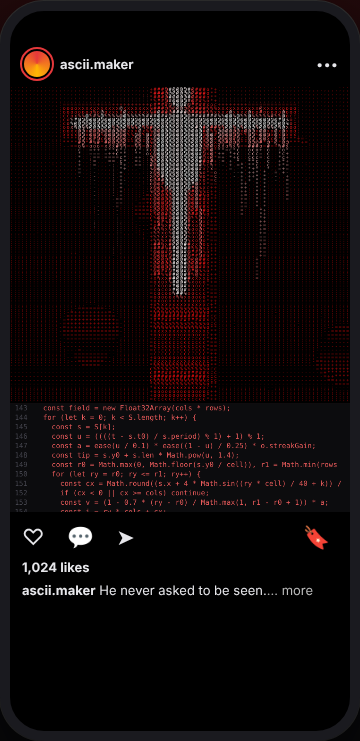
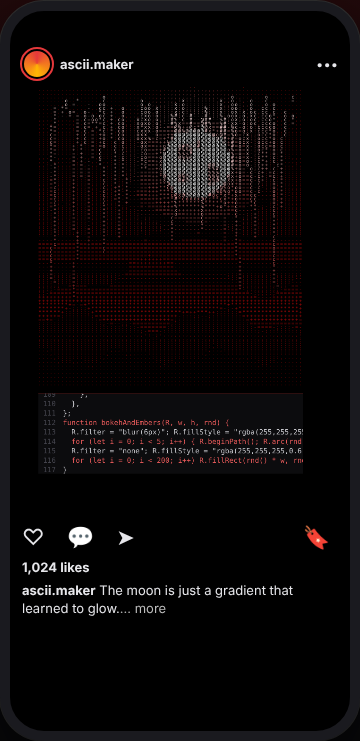
Neutral Moon preset as default; refresh README media
Claude-Session: https://claude.ai/code/session_01Pxq9N7TQmeZv5nHr7TsZvi

Changed region(s): [[0.0306, 0.0931, 0.9778, 0.6829], [0.0611, 0.776, 0.8556, 0.8381], [0.0306, 0.5277, 0.0917, 0.6829]]

diff --git a/src/engine.js b/src/engine.js
@@ -23,6 +23,39 @@ export function rng(seed) {
 
 // ---------- built-in scenes: draw white parts on `L`, red parts on `R` ----------
 export const PRESETS = {
+  moon: {
+    name: "Moon",
+    emitter: (h) => ({ x: 360, y: h * 0.12, spread: 330 }),
+    draw(L, R, w, h, rnd) {
+      const sx = w / 720, sy = h / 860;
+      const g = R.createLinearGradient(0, 0, 0, h);          // red dusk sky
+      g.addColorStop(0, "rgba(255,255,255,0.05)"); g.addColorStop(0.6, "rgba(255,255,255,0.45)");
+      g.addColorStop(1, "rgba(255,255,255,0.1)");
+      R.fillStyle = g; R.fillRect(0, 0, w, h);
+      L.filter = "blur(40px)"; L.fillStyle = "rgba(255,255,255,0.4)";   // moon halo + disc
+      L.beginPath(); L.arc(430 * sx, 250 * sy, 150 * sx, 0, TAU); L.fill();
+      L.filter = "blur(2px)"; L.fillStyle = "#fff";
+      L.beginPath(); L.arc(430 * sx, 250 * sy, 95 * sx, 0, TAU); L.fill();
+      L.globalCompositeOperation = "destination-out"; L.fillStyle = "rgba(0,0,0,0.35)";   // craters
+      [[400, 220, 20], [470, 280, 26], [440, 200, 10], [395, 290, 12]].forEach(([x, y, r]) => {
+        L.beginPath(); L.arc(x * sx, y * sy, r * sx, 0, TAU); L.fill(); });
+      L.globalCompositeOperation = "source-over"; L.filter = "none";
+      const ridge = (c, base, amp, f, ph, style) => {            // mountain silhouettes
+        c.globalCompositeOperation = "destination-out"; c.fillStyle = "#000";
+        c.beginPath(); c.moveTo(0, h);
+        for (let x = 0; x <= w; x += 6) c.lineTo(x, (base + amp * Math.sin(x / (f * sx) + ph) + amp * 0.5 * Math.sin(x / (f * 0.37 * sx) + ph * 2)) * sy);
+        c.lineTo(w, h); c.fill(); c.globalCompositeOperation = "source-over";
+        if (style) { c.fillStyle = style; c.beginPath(); c.moveTo(0, h);
+          for (let x = 0; x <= w; x += 6) c.lineTo(x, (base + amp * Math.sin(x / (f * sx) + ph) + amp * 0.5 * Math.sin(x / (f * 0.37 * sx) + ph * 2)) * sy);
+          c.lineTo(w, h); c.fill(); }
+      };
+      ridge(L, 560, 40, 90, 1, null); ridge(R, 560, 40, 90, 1, "rgba(255,255,255,0.55)");
+      ridge(L, 680, 30, 60, 3, null); ridge(R, 680, 30, 60, 3, "rgba(255,255,255,0.25)");
+      ridge(L, 780, 18, 40, 5, null); ridge(R, 780, 18, 40, 5, "rgba(255,255,255,0.08)");
+      R.fillStyle = "rgba(255,255,255,0.7)";                      // stars
+      for (let i = 0; i < 120; i++) R.fillRect(rnd() * w, rnd() * h * 0.55, 2, 2);
+    },
+  },
   crucifix: {
     name: "Cross",
     emitter: (h) => ({ x: 360, y: h * 0.31, spread: 220 }),

diff --git a/src/App.jsx b/src/App.jsx
@@ -14,8 +14,8 @@ const TINTS = { blood: [1, 0.06, 0.06], ember: [1, 0.45, 0.1], toxic: [0.3, 1, 0
 const SUGGESTED = ["asciiart", "ascii", "generativeart", "creativecoding", "codeart", "proceduralart", "glitchart",
   "digitalart", "darkart", "surrealart", "horrorart", "newmediaart", "algorithmicart", "computerart", "textart",
   "loopanimation", "animationloop", "javascript", "reactjs", "dailyart"];
-const DEFAULT_CAPTION = `He never asked to be seen.
-Red light, white silence, ash falling through time.
+const DEFAULT_CAPTION = `The moon is just a gradient that learned to glow.
+Red dusk, white light, characters falling like rain.
 
 Every frame is code. Not a single pixel drawn by hand.
 The source scrolls at the bottom — pause and read it.
@@ -24,7 +24,7 @@ What would you feed into it? 👇`;
 
 export default function App() {
   // ---------- visual params ----------
-  const [preset, setPreset] = useState("crucifix");
+  const [preset, setPreset] = useState("moon");
   const [image, setImage] = useState(null);
   const [cell, setCell] = useState(8);
   const [ramp, setRamp] = useState("classic");

diff --git a/README.md b/README.md
@@ -1,6 +1,6 @@
 <div align="center">
 
-<img src="docs/hero.gif" width="300" alt="ASCII loop: a glowing faceless figure on a red cross, ash falling" />
+<img src="docs/hero.gif" width="300" alt="ASCII loop: a glowing moon over red mountains, light rain falling" />
 
 # ASCII Reels Studio
 
@@ -16,7 +16,7 @@
 
 | | |
 |---|---|
-| 🖼 **Scenes** | Built-in procedural scenes (*Cross*, *Monolith*) or **your own image** |
+| 🖼 **Scenes** | Built-in procedural scenes (*Moon*, *Monolith*, *Cross*) or **your own image** |
 | 🔣 **ASCII engine** | Glyph ramps (`classic`, `blocks`, `dense`, `binary`, `dots`), cell size, colour tints |
 | 🌧 **Animation** | Falling glowing streaks, a travelling pulse, flicker; all loop seamlessly |
 | 🧾 **Code panel** | The engine's own source code scrolls under the scene, like in the creative-coding reels |
@@ -33,13 +33,13 @@
 </p>
 
 <p align="center">
-  <img src="docs/reels-monolith.png" width="240" alt="Reels preview — Monolith scene" />
+  <img src="docs/reels-moon.png" width="240" alt="Reels preview — Moon scene" />
   &nbsp;
   <img src="docs/reels-toxic.png" width="240" alt="Reels preview — blocks glyphs, toxic tint" />
   &nbsp;
   <img src="docs/feed.png" width="240" alt="Feed 4:5 preview" />
 </p>
-<p align="center"><sub>Reels · <i>Monolith</i> &nbsp;|&nbsp; Reels · <code>blocks</code> + <code>toxic</code> &nbsp;|&nbsp; Feed 4:5</sub></p>
+<p align="center"><sub>Reels · <i>Moon</i> &nbsp;|&nbsp; Reels · <code>blocks</code> + <code>toxic</code> &nbsp;|&nbsp; Feed 4:5</sub></p>
 
 ## 🛡 Reels safe zones
 
